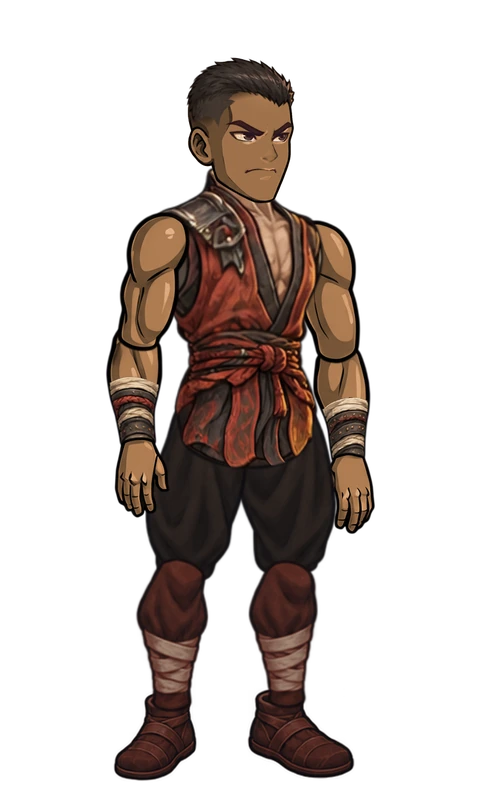
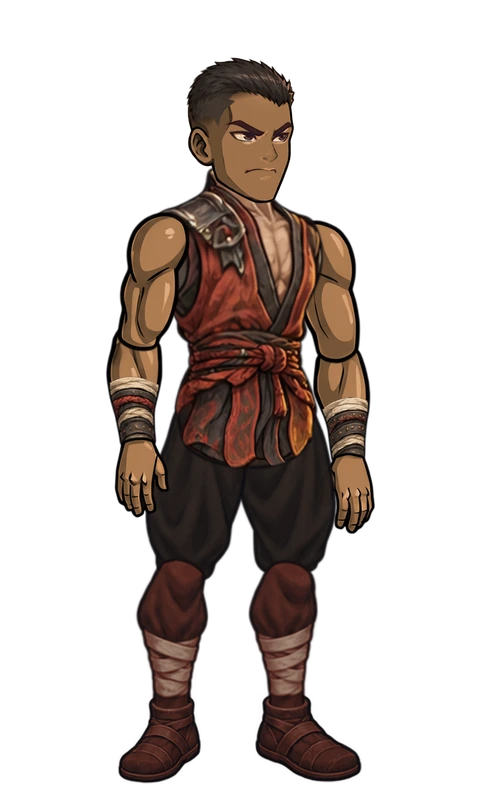
refactor: add assembly pipeline and webp assets for map representatives

Changed region(s): [[0.5, 0.8438, 0.75, 1.0], [0.2188, 0.8438, 0.4375, 1.0]]

diff --git a/src/meta-ui.js b/src/meta-ui.js
@@ -1,7 +1,7 @@
 import { ENEMY_ACTIONS, ENEMY_ROSTER, EQUIPMENT, JUTSU_LIBRARY } from "./data.js?v=1.5.0"; import { ALL_MISSIONS, MISSIONS, SECONDARY_MISSIONS, STORY_SAGAS } from "./content/index.js?v=0.155.0";
 import { getDialogue, getMissionSceneDialogue } from "./dialogues.js?v=0.155.0";
 import { missionHasStep, missionState, missionStep, missionsForBoard, nextAvailableMission } from "./mission-system.js?v=0.155.0";
-import { LOCATION_CAST, NPCS, locationDialogue, npcByName, npcName } from "./npcs.js?v=0.175.0";
+import { LOCATION_CAST, NPCS, locationDialogue, npcByName, npcName } from "./npcs.js?v=0.176.0";
 import { DEBUG_CHECKPOINTS, abandonMissionProgress, actOnDoctorCipher, activeSaveSlot, affinityXpForElement, applyDebugCheckpoint, attributeTrainingLimit, cancelDoctorMission, chooseDoctorMissionRoute, chooseHideoutEntrance, completeDoctorMission, createCharacter, deleteSaveSlot, deliverBestiaryBook, derivedStats, isTechniqueLearned, levelUpReport, listSaveSlots, loadoutSlotsForLevel, markSecondaryMissionCompleted, masterIdForCharacter, normalizeSave, resetAttributes, resolveDoctorRiverPassage, selectMaster, selectNextAffinity, selectSaveSlot, spendAttribute, startDoctorMission, writeSave, xpForNextLevel } from "./save.js?v=0.171.0";
 import { createViewRuntime } from "./view-runtime.js?v=0.66.0";
 import { BASIC_ELEMENT_IDS, ELEMENTS, ELEMENT_RANK_LABELS, basicRequirements, canAccessElement, elementIcon, elementIconParts, elementName } from "./elements.js?v=0.20.0";

diff --git a/game.js b/game.js
@@ -1,4 +1,4 @@
-import { mountMetaUI } from "./src/meta-ui.js?v=0.175.0";
+import { mountMetaUI } from "./src/meta-ui.js?v=0.176.0";
 import { mountSaveRecovery } from "./src/ui/save-recovery.js?v=0.171.0";
 import { startCloudSaveSession } from "./src/save/cloud-session.js?v=0.171.0";
 import { mountCloudSaveStatus } from "./src/ui/meta/cloud-saves.js?v=0.171.0";
@@ -23,7 +23,7 @@ let gameLaunchRevision = 0;
 
 function loadBattleBundle() {
   if (!battleBundlePromise) battleBundlePromise = loadPhaser()
-    .then(() => import("./src/battle/bundle.js?v=0.175.0"))
+    .then(() => import("./src/battle/bundle.js?v=0.176.0"))
     .catch((error) => { battleBundlePromise = null; throw error; });
   return battleBundlePromise;
 }

diff --git a/src/battle/bundle.js b/src/battle/bundle.js
@@ -1,6 +1,6 @@
-import { KuroganeBattleScene as BattleScene } from "./scenes/kurogane-battle-scene.js?v=0.175.0";
+import { KuroganeBattleScene as BattleScene } from "./scenes/kurogane-battle-scene.js?v=0.176.0";
 import { MissionTravelScene } from "./scenes/mission-travel-scene.js?v=0.173.0";
-import { MissionEpilogueScene } from "./scenes/mission-epilogue-scene.js?v=0.175.0";
+import { MissionEpilogueScene } from "./scenes/mission-epilogue-scene.js?v=0.176.0";
 import { LevelUpScene } from "./scenes/level-up-scene.js?v=0.173.0";
 import { SecondaryResultsScene } from "./scenes/secondary-results-scene.js?v=0.171.0";
 import { ResultsScene } from "./scenes/results-scene.js?v=0.171.0";

diff --git a/src/battle/scenes/battle-scene.js b/src/battle/scenes/battle-scene.js
@@ -1,7 +1,7 @@
 import { mountAccessibleBattleHud } from "../hud-accessibility.js?v=0.171.0";
 import { rememberCombatTexture } from "../combat-textures.js?v=1.0.0";
 import { upgradedTechnique } from "../../skills/progression.js?v=1.0.0";
-import { NPCS } from "../../npcs.js?v=0.175.0";
+import { NPCS } from "../../npcs.js?v=0.176.0";
 import { queueTeleportObjects } from "../teleport-transition.js?v=1.2.0";
 import { clearSceneFilters, clearSceneParticles } from "../visual-resources.js?v=0.99.0";
 import { SEALS, BASE_ACTIONS, JUTSU_LIBRARY, ENEMY_ACTIONS, ENEMY_ROSTER } from "../../data.js?v=1.5.0";

diff --git a/src/battle/scenes/kurogane-battle-scene.js b/src/battle/scenes/kurogane-battle-scene.js
@@ -1,4 +1,4 @@
-import { GroupTrainingBattleScene } from "./group-training-battle-scene.js?v=0.175.0";
+import { GroupTrainingBattleScene } from "./group-training-battle-scene.js?v=0.176.0";
 import { BattleFeedbackMethods } from "./battle-feedback.js?v=0.171.0";
 import { battleRuntime } from "../runtime.js?v=0.91.0";
 import { hairTextureKey, createPlayerFighter, queuePlayerFighterTextures, destroyFighter, startPlayerBreathing, stopPlayerBreathing, startPlayerPreparing, stopPlayerPreparing, fighterAtlasKey, fighterCombatPortraitLayout, useFighterTextureRendering } from "../../fighters.js?v=0.171.0";

diff --git a/src/battle/scenes/mission-epilogue-scene.js b/src/battle/scenes/mission-epilogue-scene.js
@@ -2,7 +2,7 @@ import { addNoticeText, mountSceneNotice } from "../scene-notices.js?v=0.173.0";
 import { BATTLE_ARENAS, HEIGHT, Phaser, WIDTH, battleRuntime } from "../runtime.js?v=0.91.0";
 import { stageVictory } from "../victory-transaction.js?v=0.95.0";
 import { rememberCombatTexture } from "../combat-textures.js?v=1.0.0";
-import { NPCS } from "../../npcs.js?v=0.175.0";
+import { NPCS } from "../../npcs.js?v=0.176.0";
 
 export class MissionEpilogueScene extends Phaser.Scene {
   constructor() { super("epilogue"); }

diff --git a/src/npcs.js b/src/npcs.js
@@ -1,7 +1,7 @@
 import { getDialogue } from "./dialogues.js?v=0.155.0";
 
 const npc = (id, name, title, reference) => Object.freeze({
-  id, name, title, reference, image: `assets/modular/representatives/${id}.webp?v=1.2.0`,
+  id, name, title, reference, image: `assets/modular/representatives/${id}.webp?v=1.2.1`,
   dialogue: Object.freeze({ intro: `npc.${id}.intro`, guide: `npc.${id}.guide` })
 });
 

diff --git a/src/battle/scenes/training-battle-scene.js b/src/battle/scenes/training-battle-scene.js
@@ -1,4 +1,4 @@
-import { ArenaBattleScene } from "./arena-battle-scene.js?v=0.175.0";
+import { ArenaBattleScene } from "./arena-battle-scene.js?v=0.176.0";
 import { battleRuntime, WIDTH, HEIGHT } from "../runtime.js?v=0.91.0";
 import { trainingActions, trainingDummyProfile } from "../../training.js?v=0.171.0";
 import { CHAKRA_BALANCE } from "../../chakra-balance.js?v=1.0.0";

diff --git a/src/battle/scenes/group-training-battle-scene.js b/src/battle/scenes/group-training-battle-scene.js
@@ -1,4 +1,4 @@
-import { TrainingBattleScene } from "./training-battle-scene.js?v=0.175.0";
+import { TrainingBattleScene } from "./training-battle-scene.js?v=0.176.0";
 import { applyBattleConsumable } from "../battle-inventory.js?v=0.171.0";
 import { BattleFlowMethods } from "./battle-flow.js?v=0.172.0";
 import { createEnemyState } from "../enemy-state.js?v=0.155.0";

diff --git a/src/battle/scenes/arena-battle-scene.js b/src/battle/scenes/arena-battle-scene.js
@@ -1,4 +1,4 @@
-import { BattleScene } from "./battle-scene.js?v=0.175.0";
+import { BattleScene } from "./battle-scene.js?v=0.176.0";
 import { arenaRivalProfile, ARENA_BACKGROUND } from "../../arena.js?v=0.171.0";
 import { showExhibitionResult } from "../exhibition-results.js?v=0.171.0";
 import { WIDTH, HEIGHT, battleRuntime } from "../runtime.js?v=0.91.0";

diff --git a/index.html b/index.html
@@ -132,7 +132,7 @@
     if (!mobileViewport.matches || compactEnabled) {
       const { installGameCursor } = await import("./src/game-cursor.js?v=0.5.0");
       installGameCursor(document.querySelector("main"));
-      await import("./game.js?v=0.175.0");
+      await import("./game.js?v=0.176.0");
     }
   </script>
 </body>

diff --git a/scripts/pack-npc-puppets.py b/scripts/pack-npc-puppets.py
@@ -36,6 +36,17 @@ BOOTS = {
     "riku": "traveler", "nao": "channeler", "iori": "traveler", "nami": "traveler"
 }
 BOOT_HIGHLIGHTS = {"mei": "#658b83", "sayo": "#7b6a95", "nao": "#925d5d"}
+# Inner opening of each boot: horizontal center, center height, and radii
+# in source pixels. Each pair lists pie_derecho followed by pie_izquierdo.
+BOOT_OPENINGS = {
+    ("traveler", "male"): ((90, 14, 31, 8), (50, 14, 32, 8)),
+    ("traveler", "female"): ((88, 14, 30, 8), (47, 14, 31, 8)),
+    ("shadow", "male"): ((88, 16, 28, 9), (51, 16, 29, 10)),
+    ("shadow", "female"): ((84, 16, 27, 9), (49, 16, 29, 9)),
+    ("channeler", "male"): ((85, 14, 29, 7), (55, 13, 35, 7)),
+    ("channeler", "female"): ((83, 13, 28, 7), (53, 13, 33, 7))
+}
+SHOE_LEGS = {"pie_derecho": "pierna_derecha", "pie_izquierdo": "pierna_izquierda"}
 
 # Hairline depth at the temple, part, and far side of the native skull.
 # The shallow right side protects the brow and keeps the face in three quarters.
@@ -220,13 +231,36 @@ def fitted_scalp(head_art, id):
     return Image.merge("RGBA", (*channels, Image.fromarray(np.rint(alpha).astype(np.uint8))))
 
 
-def boot_position(art, size, joint, offset):
-    # Fit to the centre of the cuff, which is not the centre of either shoe.
-    left, right = row_edges(art.getchannel("A"))
-    cuff = round(art.height * .13)
-    cuff_x = (left[cuff] + right[cuff] + 1) / (2 * art.width)
-    return (offset[0] + joint["x"] + (.5 - cuff_x) * size[0],
-            offset[1] + joint["y"] + (.5 - cuff / art.height) * size[1])
+def dress_ankle(leg, leg_part, boot, foot_part, opening, offset):
+    """Register the boot on the visible shin and tuck the shin inside its rim."""
+    cuff_x, cuff_y, radius_x, radius_y = opening
+    leg_x = round(offset[0] + leg_part["x"] - leg.width / 2)
+    leg_y = round(offset[1] + leg_part["y"] - leg.height / 2)
+    # Sample the straight ankle above its rounded lower edge.
+    ankle = leg.height - 20
+    left, right = row_edges(leg.getchannel("A"))
+    boot_x = round(leg_x + (left[ankle] + right[ankle]) / 2 - cuff_x)
+    boot_y = round(offset[1] + foot_part["y"] - boot.height / 2)
+
+    # Extend only the end of the shin if it narrows before reaching the rim.
+    lower = ankle - 28
+    extension = max(0, boot_y + cuff_y + radius_y + 2 - (leg_y + ankle))
+    if extension:
+        art = Image.new("RGBA", (leg.width, leg.height + extension))
+        art.paste(leg.crop((0, 0, leg.width, lower)))
+        end = leg.crop((0, lower, leg.width, leg.height))
+        art.paste(end.resize((leg.width, end.height + extension), Image.Resampling.LANCZOS), (0, lower))
+        leg = art
+
+    # The back of the opening stays behind the shin. Its curved front edge
+    # covers the shin, including the sides where it meets the collar.
+    columns = leg_x + np.arange(leg.width) - boot_x - cuff_x
+    rim = boot_y + cuff_y + radius_y * np.sqrt(np.clip(1 - (columns / radius_x) ** 2, 0, 1))
+    rows = leg_y + np.arange(leg.height)[:, None]
+    coverage = np.clip(rim - rows + .5, 0, 1)
+    alpha = np.asarray(leg.getchannel("A"))
+    leg.putalpha(Image.fromarray(np.rint(alpha * coverage).astype(np.uint8)))
+    return (boot_x, boot_y), (leg, (leg_x, leg_y))
 
 
 def assemble(sheet, row, profile, rigs, palettes, beards, sleeve_fabric):
@@ -246,6 +280,7 @@ def assemble(sheet, row, profile, rigs, palettes, beards, sleeve_fabric):
     hair_at = (round(top[0] + x), round(top[1] + y))
     back_hair, front_hair = registered_hair(extract(sheet, 5, row, id), head, hair_box)
     image.alpha_composite(back_hair, hair_at)
+    dressed_legs = {}
     for part in rig["layers"]:
         name = part["id"]
         size = (part["width"] * part.get("scaleX", 1), part["height"] * part.get("scaleY", 1))
@@ -267,14 +302,25 @@ def assemble(sheet, row, profile, rigs, palettes, beards, sleeve_fabric):
                 art = fitted_material(donor, native)
                 if name.startswith("antebrazo") and id in ("hana", "yuna", "kureha", "goro"):
                     art = native_cuff(art, base, donor, native, id)
-        elif name.startswith("pie_"):
-            foot_path = MODULAR / "outfits" / BOOTS[id] / body / f"{name}.png"
+        elif name in SHOE_LEGS:
+            style = BOOTS[id]
+            foot_path = MODULAR / "outfits" / style / body / f"{name}.png"
             upper = BOOT_HIGHLIGHTS.get(id, "#c4b6a0")
-            art = clothing_tone(Image.open(foot_path).convert("RGBA"), shoes, upper)
-            ankle = rig["joints"]["ankleRight" if name == "pie_derecho" else "ankleLeft"]
-            center = boot_position(art, size, ankle, (offset_x, offset_y))
+            boot = clothing_tone(Image.open(foot_path).convert("RGBA"), shoes, upper)
+            leg_name = SHOE_LEGS[name]
+            leg = clothing_tone(Image.open(outfit_path / f"{leg_name}.png").convert("RGBA"), shoes)
+            opening = BOOT_OPENINGS[style, body][name == "pie_izquierdo"]
+            position, dressed_legs[leg_name] = dress_ankle(
+                leg, rig["byId"][leg_name], boot, part, opening, (offset_x, offset_y)
+            )
+            image.alpha_composite(boot, position)
+            continue
+        elif name in dressed_legs:
+            art, position = dressed_legs[name]
+            image.alpha_composite(art, position)
+            continue
         elif name in outfit:
-            art = clothing_tone(Image.open(outfit_path / f"{name}.png").convert("RGBA"), shoes if name.startswith("pierna_") else pants)
+            art = clothing_tone(Image.open(outfit_path / f"{name}.png").convert("RGBA"), pants)
         else:
             art = skin(native, palette)
         draw(image, art, center, size)
